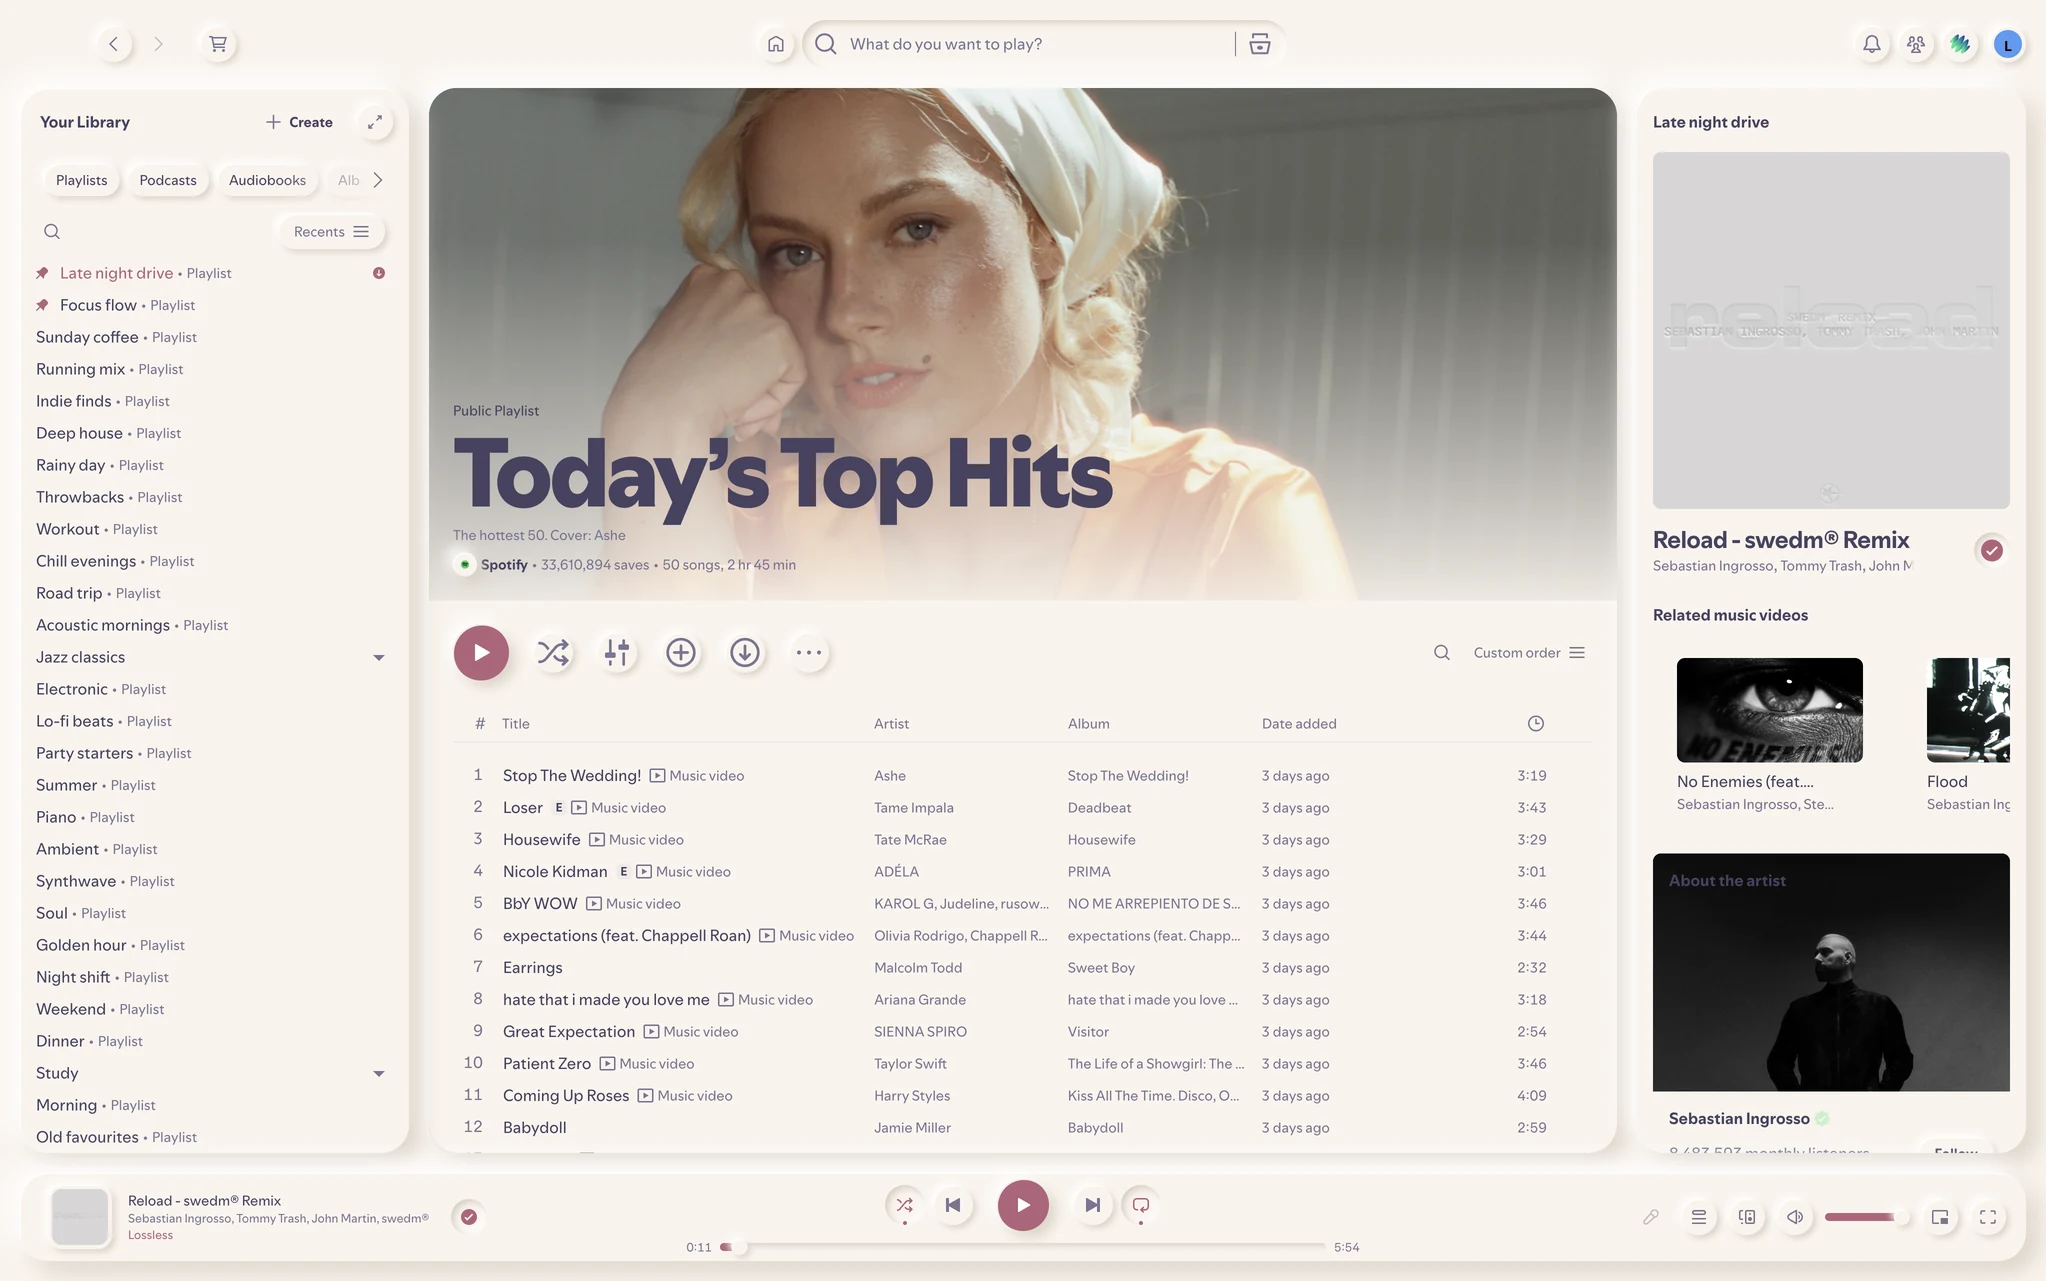
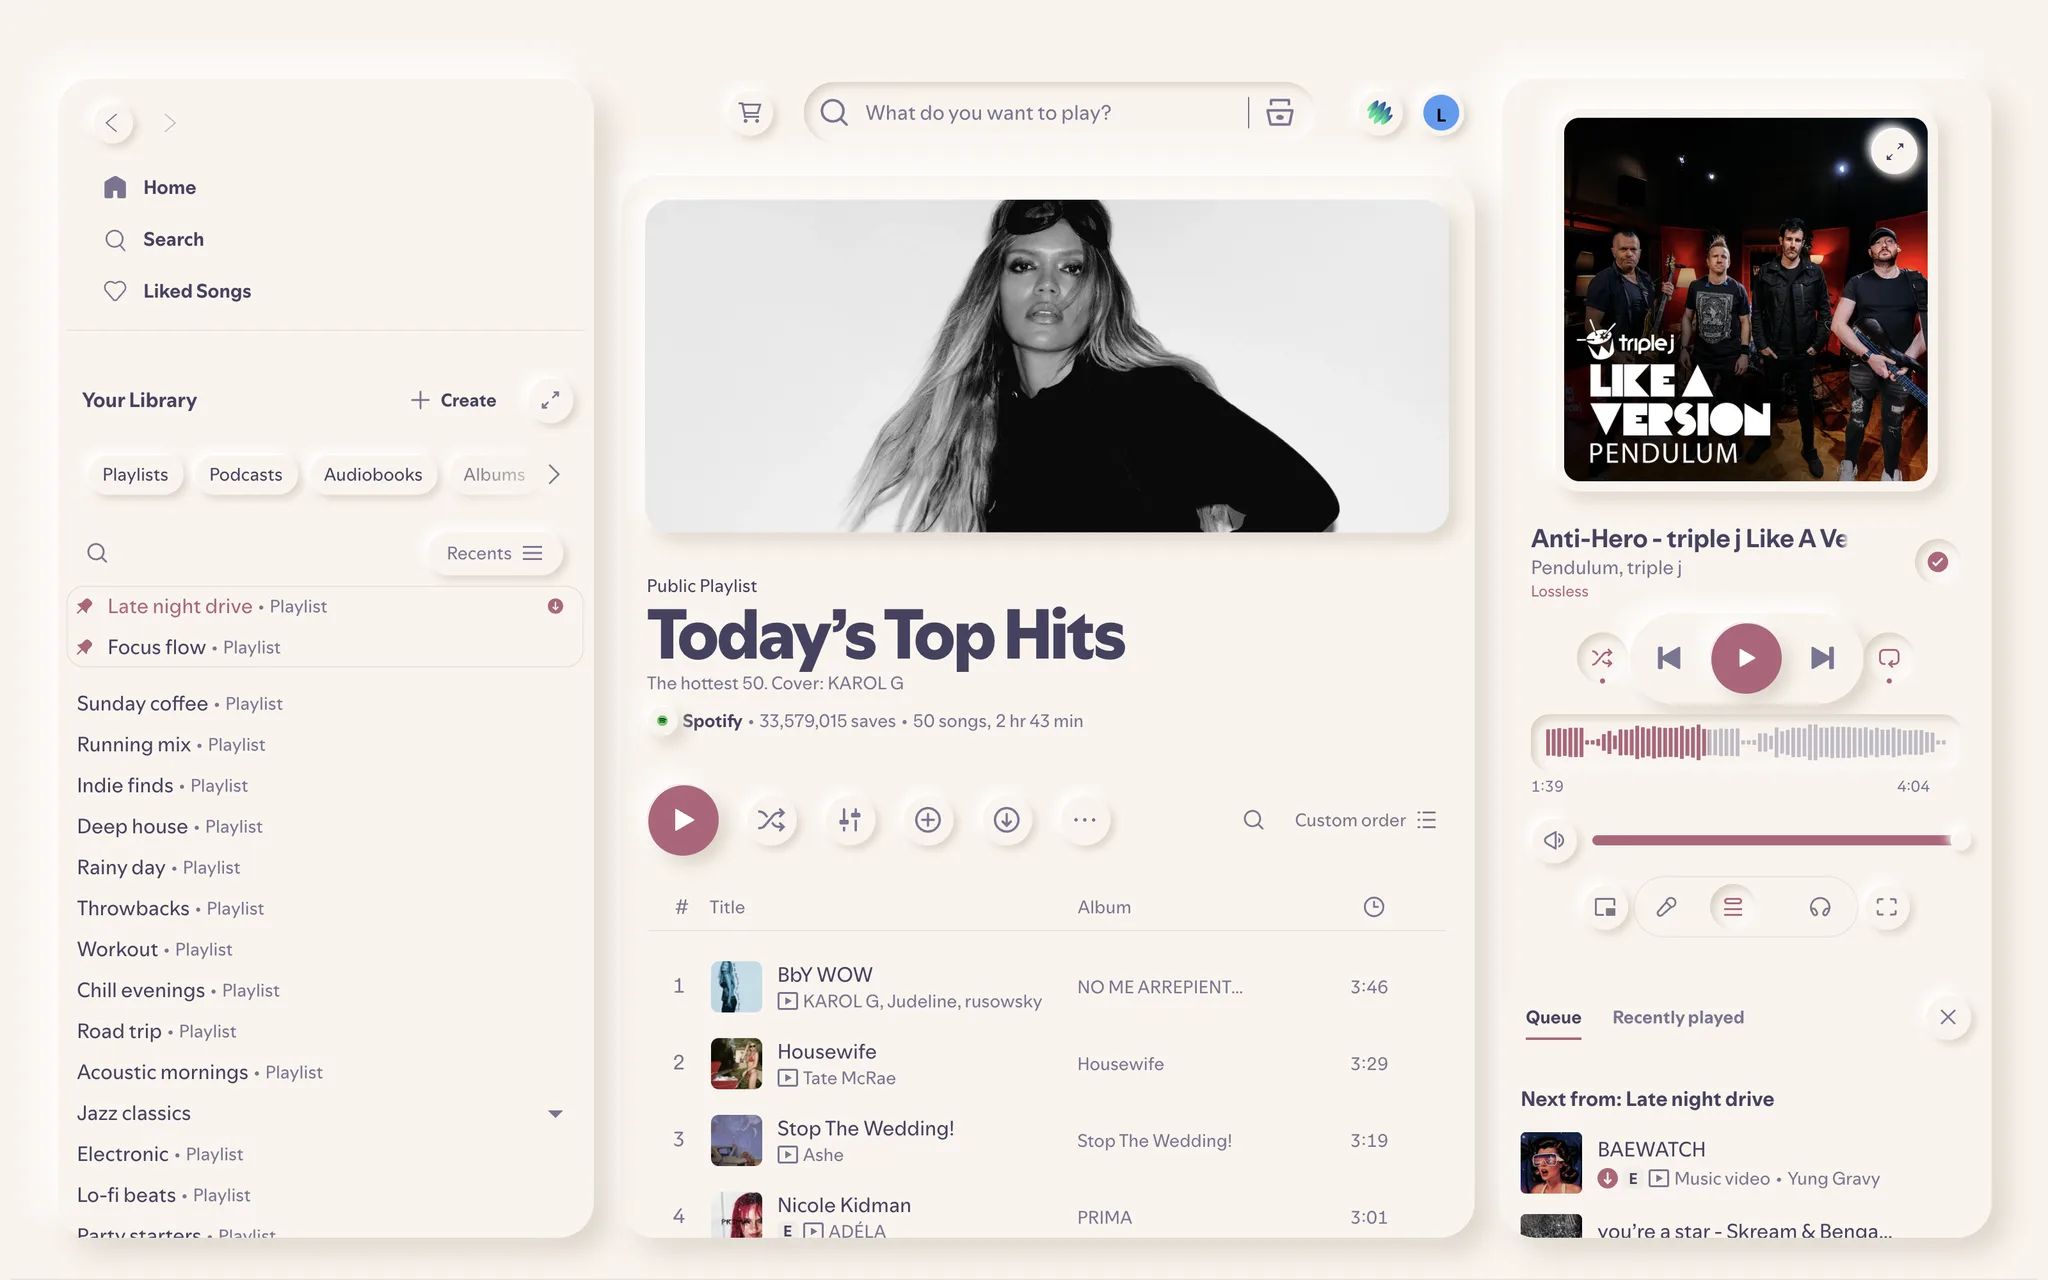
docs(readme): describe v2 features, refresh screenshots

diff --git a/README.md b/README.md
@@ -5,12 +5,33 @@ A neumorphic ("soft UI") theme for the Spotify desktop client, built with
 shadow pairs, raised controls, pressed-in states, and a single accent
 colour. Colours are fully themeable through `color.ini`.
 
+spotineu also rethinks Spotify's layout:
+
+- **The stage.** The player and the right panel are one column: large cover,
+  controls, progress, then the queue. The track never shows twice, and
+  queue, lyrics and devices are tabs right under the player.
+- **Navigation where it belongs.** Back, forward, Home, Search and Liked
+  Songs sit at the top of the library. Pinned items form their own group.
+  The top bar is just search and your account.
+- **Waveform seek bar** drawn from the track's loudness.
+- **Listening mode** (⌘/Ctrl+Shift+F, or the button on the cover): only the
+  large player and the queue or lyrics.
+- **Calmer content.** Compact page headers instead of giant banners, the
+  playing row shows its own progress, play buttons on cards are always
+  visible, and upsells, ads, concert promos and panel filler are gone.
+
+Every feature can be switched off under **profile menu → spotineu**. If a
+Spotify update breaks one, that part falls back to the plain neumorphic
+look instead of breaking. Below 1100px window width the classic layout
+with a bottom player bar returns.
+
 ## Screenshots
 
 Rosé Pine:
 
 ![Home, Rosé Pine](docs/screenshots/rose-pine-home.webp)
-![Playlist with now playing panel, Rosé Pine](docs/screenshots/rose-pine-playlist.webp)
+![Playlist, Rosé Pine](docs/screenshots/rose-pine-playlist.webp)
+![Listening mode, Rosé Pine](docs/screenshots/rose-pine-listening.webp)
 
 | Search | Settings |
 |---|---|
@@ -19,7 +40,8 @@ Rosé Pine:
 Rosé Pine Dawn:
 
 ![Home, Rosé Pine Dawn](docs/screenshots/rose-pine-dawn-home.webp)
-![Playlist with now playing panel, Rosé Pine Dawn](docs/screenshots/rose-pine-dawn-playlist.webp)
+![Playlist, Rosé Pine Dawn](docs/screenshots/rose-pine-dawn-playlist.webp)
+![Listening mode, Rosé Pine Dawn](docs/screenshots/rose-pine-dawn-listening.webp)
 
 | Search | Settings |
 |---|---|
@@ -27,7 +49,9 @@ Rosé Pine Dawn:
 
 ## Install
 
-Requires Spicetify (tested with 2.45.3 on Spotify 1.3.8).
+Requires Spicetify with `inject_theme_js = 1` (tested with 2.46.4). The
+layout features live in `theme/theme.js`; without it you get the plain
+neumorphic look.
 
 ```bash
 git clone <this repo> spotineu && cd spotineu
@@ -54,6 +78,18 @@ Each `[section]` in `theme/color.ini` is a scheme. Besides Spicetify's 18
 base keys, every scheme sets `neu-light` and `neu-dark` (the two shadow
 colours, which set how strong the depth is) and `on-accent`. Write hex
 values without `#`.
+
+## Features and known limits
+
+| Feature (spotineu menu) | What it does | Limits |
+|---|---|---|
+| Stage layout | Player + right panel in one column; top bar becomes the main column's head | Needs a window at least 1100px wide; the right panel is always open (queue by default) and has a fixed width |
+| Left navigation | Back, forward, Home, Search, Liked Songs at the top of the library; pinned group | |
+| Declutter | Hides What's new, friend activity, upsells, ads, concert and merch promos, the Jam invite, and now-playing-view filler | Podcasts and audiobooks stay |
+| Two-line track rows | Calmer rows, round play button, progress on the playing row, fewer columns in a narrow main column | Compact view stays one line |
+| Compact headers and cards | Natural-height headers, contained hero photos, always-visible play buttons, roomier home shortcuts | |
+| Waveform seek bar | Loudness bars behind the progress slider | Uses Spotify's internal audio analysis, which Spotify closed for third-party apps in 2024. If it stops answering, the plain slider shows |
+| Listening mode | ⌘/Ctrl+Shift+F or the cover button; Esc leaves | |
 
 ## Layout of this repo
 
